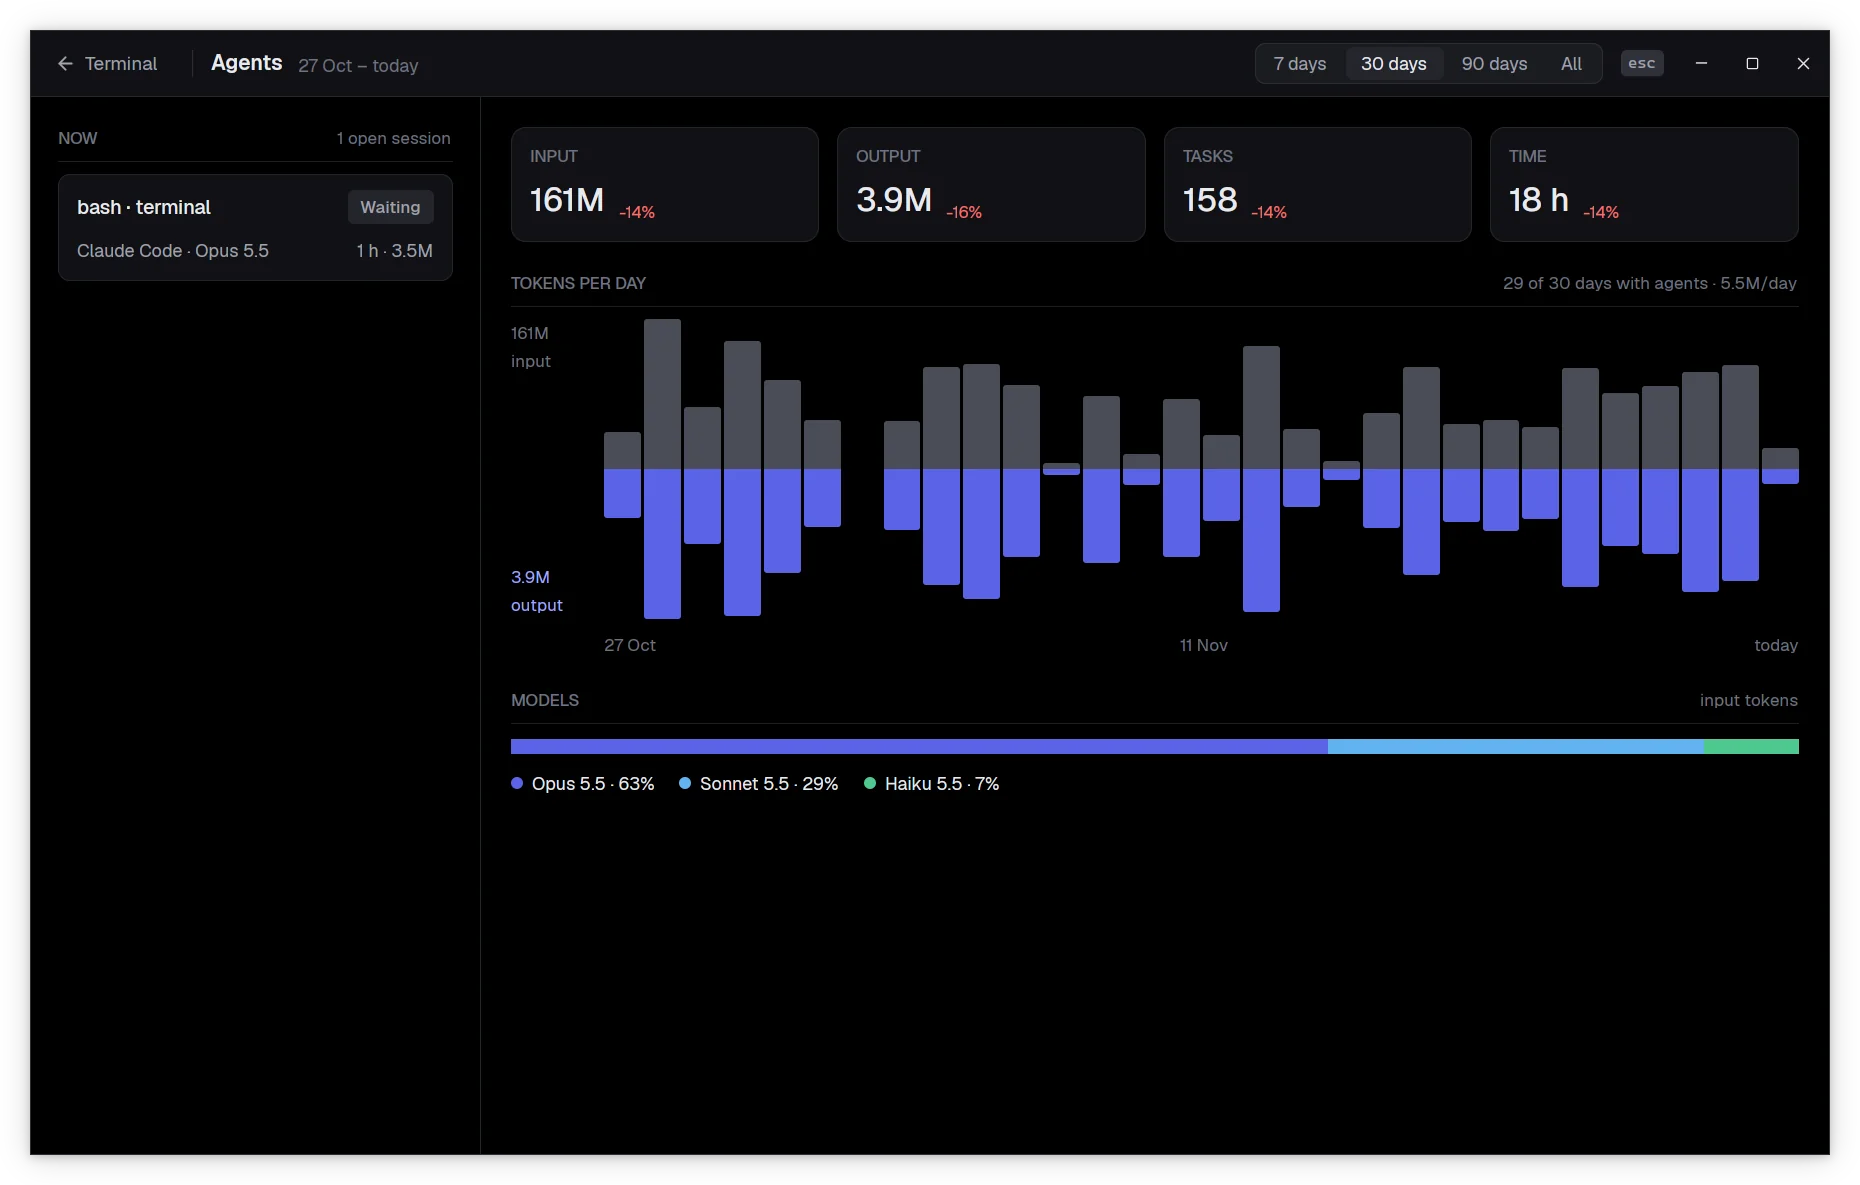
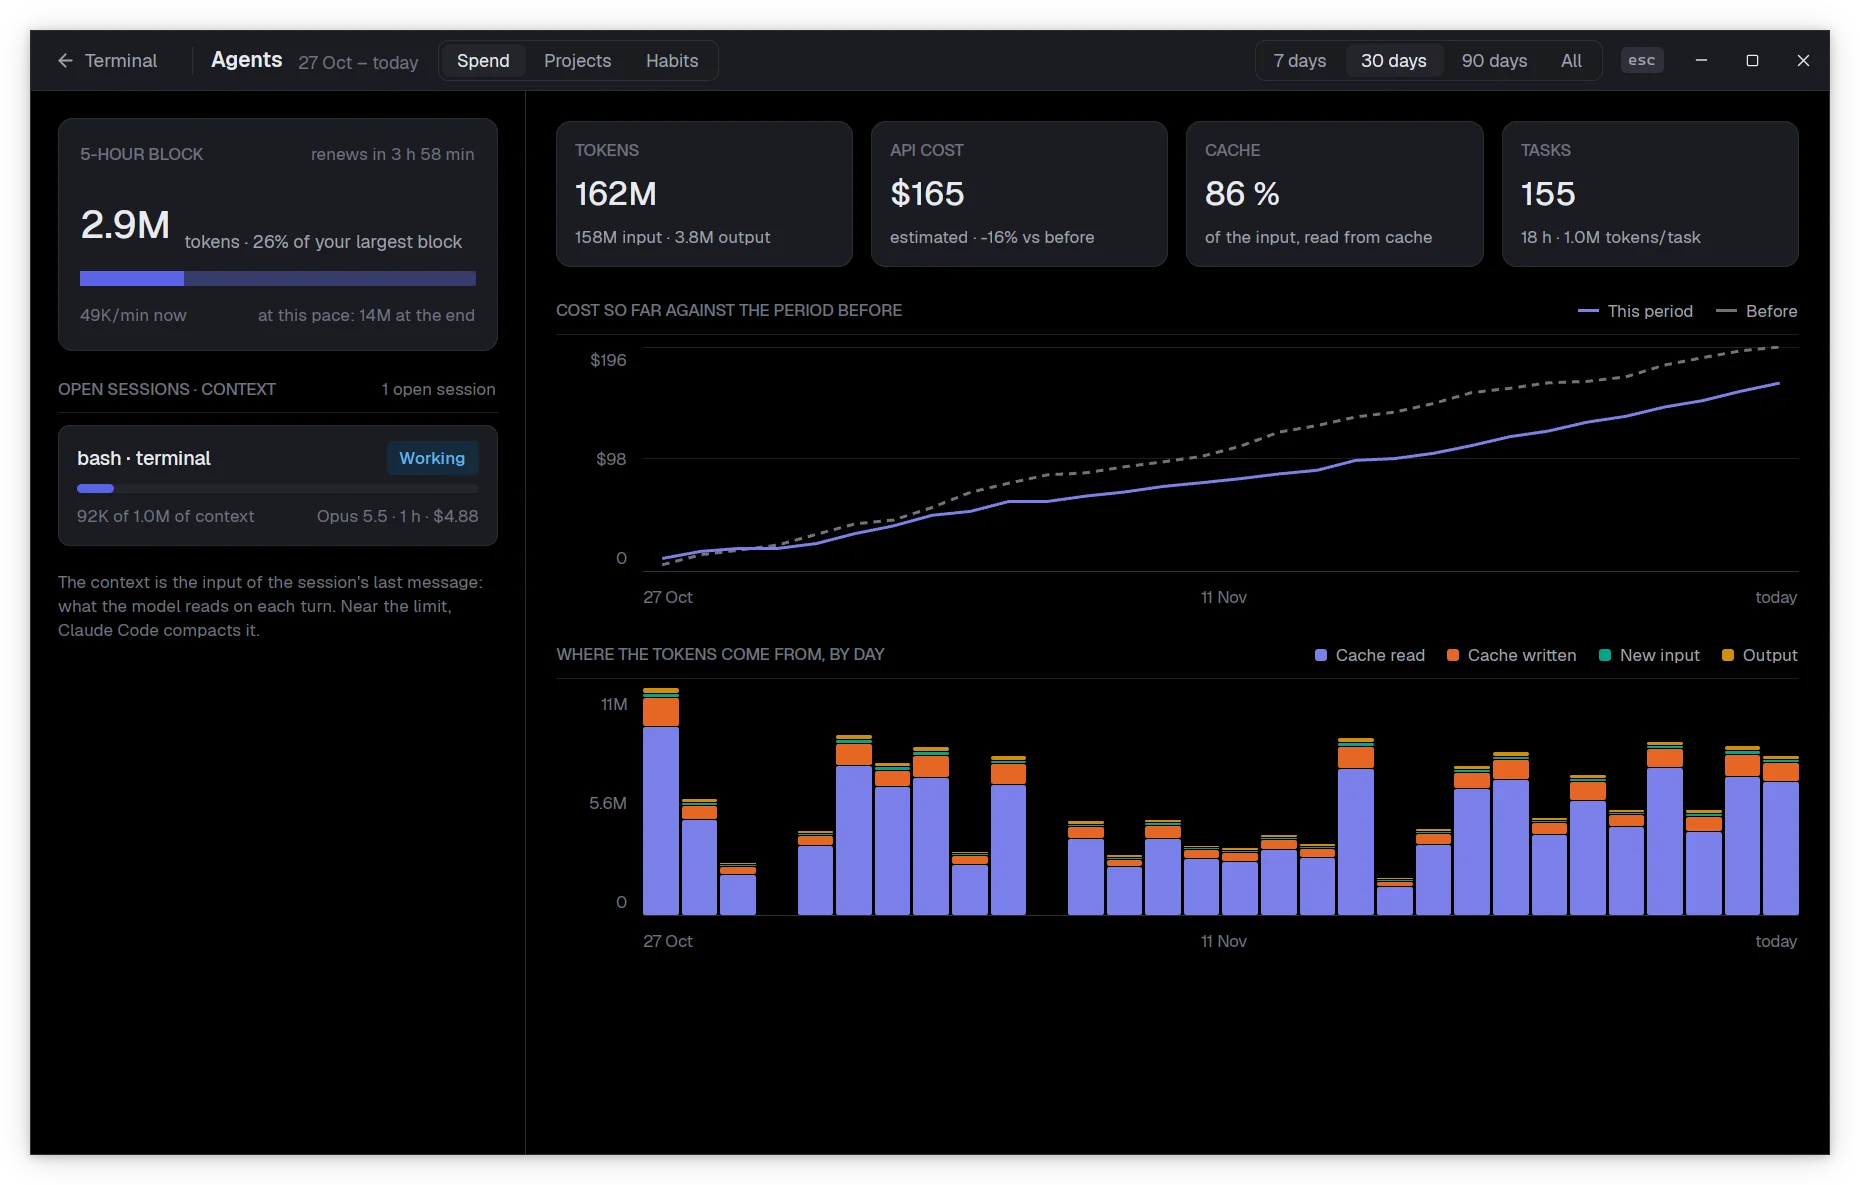
Take a new screenshot of the usage screen for the website
The website showed the usage screen of 0.2.0. The demo logs now name
their folder and keep a 5-hour block running, the capture script
records the version so What's new does not open over the first
screenshot, and the text of the section describes the new screen. The
cost axis shows whole dollars and the cache note is shorter, so it
fits its card.

Claude-Session: https://claude.ai/code/session_01WdZr6oZmyTC6qKiuyZsYfS

diff --git a/site/index.html b/site/index.html
@@ -187,19 +187,19 @@
                         <div class="copy">
                             <h3>Your coding agent's usage</h3>
                             <div class="text">
-                                <p>See the tokens Claude Code used, per day and over a week, a month or three, with the models it used and the tabs where it runs now. The numbers are read from its logs on your machine; the content of your sessions is never read.</p>
+                                <p>See what Claude Code costs and where its tokens go: the 5-hour block against your largest one, how full the context of each agent open in a tab is, the cost at API prices against the period before, each project and the hours you work with it. The numbers are read from its logs on your machine; the content of your sessions is never read.</p>
                                 <ul class="checks">
-                                    <li>Input and output tokens, tasks and active time</li>
-                                    <li>A bar per day, cache tokens counted in</li>
+                                    <li>The 5-hour block, the context of open agents and the cost</li>
+                                    <li>Projects, recent sessions and when you work</li>
                                     <li>Nothing leaves your computer</li>
                                 </ul>
                             </div>
                         </div>
                         <div class="shot">
                             <img class="light" src="img/usage-light.webp" width="1860" height="1185" loading="lazy"
-                                alt="The agent usage screen: totals of input and output tokens, tasks and time for 30 days, a bar per day and the share of each model.">
+                                alt="The agent usage screen: the 5-hour block, the context of an agent open in a tab, tokens, cost at API prices, cache and tasks for 30 days, the cost so far against the period before and where the tokens come from each day.">
                             <img class="dark" src="img/usage-dark.webp" width="1860" height="1185" loading="lazy"
-                                alt="The agent usage screen: totals of input and output tokens, tasks and time for 30 days, a bar per day and the share of each model.">
+                                alt="The agent usage screen: the 5-hour block, the context of an agent open in a tab, tokens, cost at API prices, cache and tasks for 30 days, the cost so far against the period before and where the tokens come from each day.">
                         </div>
                     </article>
                 </div>

diff --git a/site/screenshots/demo/usage.py b/site/screenshots/demo/usage.py
@@ -1,6 +1,7 @@
 #!/usr/bin/env python3
 """Writes 60 days (this period and the one before) of made up Claude Code logs under HOME/.claude/projects for the usage
-screenshot: only the fields tterm reads (usage numbers, no content)."""
+screenshot: only the fields tterm reads (usage numbers, the folder, no content). Today's session of the
+first project started under an hour ago, so a 5-hour block is running."""
 import datetime, json, os, random, re, sys
 
 home = sys.argv[1]
@@ -13,19 +14,27 @@ for project in ["terminal", "postino", "telaio"]:
     folder = os.path.join(home, ".claude", "projects", re.sub(r"[^A-Za-z0-9]", "-", cwd))
     os.makedirs(folder, exist_ok=True)
     for day in range(60):
-        if random.random() < 0.25:
+        if random.random() < 0.25 and not (day == 0 and project == "terminal"):
             continue
-        start = now - datetime.timedelta(days=day, hours=random.randint(1, 8))
+        if day == 0 and project == "terminal":
+            start = now - datetime.timedelta(minutes=50)
+        elif day == 0:
+            # Before the running block, so the block starts with the session above.
+            start = now - datetime.timedelta(hours=random.randint(6, 9))
+        else:
+            start = now - datetime.timedelta(days=day, hours=random.randint(1, 8))
         session = f"{project}-{day}"
         lines = []
         for task in range(random.randint(1, 4)):
             t = start + datetime.timedelta(minutes=task * 25)
+            if t > now - datetime.timedelta(minutes=12):
+                break
             lines.append({"type": "user", "timestamp": t.isoformat().replace("+00:00", "Z"),
-                          "sessionId": session, "message": {"role": "user", "content": "x"}})
+                          "sessionId": session, "cwd": cwd, "message": {"role": "user", "content": "x"}})
             for answer in range(random.randint(4, 12)):
                 t2 = t + datetime.timedelta(minutes=answer)
                 lines.append({"type": "assistant", "timestamp": t2.isoformat().replace("+00:00", "Z"),
-                              "sessionId": session,
+                              "sessionId": session, "cwd": cwd,
                               "message": {"id": f"{session}-{task}-{answer}", "model": random.choice(models),
                                           "usage": {"input_tokens": random.randint(200, 4000),
                                                     "cache_creation_input_tokens": random.randint(2000, 30000),

diff --git a/crates/tterm-app/src/views/usage.rs b/crates/tterm-app/src/views/usage.rs
@@ -1073,7 +1073,7 @@ fn cost_chart(insights: &Insights, start: NaiveDate, palette: &Palette) -> impl 
         .child(
             h_flex()
                 .gap(px(10.0))
-                .child(y_axis(money(top), money(top / 2.0), palette))
+                .child(y_axis(axis_money(top), axis_money(top / 2.0), palette))
                 .child(
                     div()
                         .relative()
@@ -1767,6 +1767,15 @@ fn money(value: f64) -> String {
     }
 }
 
+/// Dollars on an axis: whole ones from $10, as `$98` rather than `$98.19`.
+fn axis_money(value: f64) -> String {
+    if (10.0..1000.0).contains(&value) {
+        format!("${value:.0}")
+    } else {
+        money(value)
+    }
+}
+
 /// A share as a percentage, `<1%` for a small one that is not zero.
 fn percent(share: f64) -> String {
     let value = share * 100.0;
@@ -1815,7 +1824,7 @@ fn ago(time: DateTime<Utc>, now: DateTime<Utc>) -> String {
 
 #[cfg(test)]
 mod tests {
-    use super::{heat_step, money, short_duration};
+    use super::{axis_money, heat_step, money, short_duration};
     use pretty_assertions::assert_eq;
 
     #[test]
@@ -1824,6 +1833,8 @@ mod tests {
         assert_eq!(money(41.2), "$41.20");
         assert_eq!(money(597.44), "$597");
         assert_eq!(money(1286.7), "$1.29K");
+        assert_eq!(axis_money(98.19), "$98");
+        assert_eq!(axis_money(4.5), "$4.50");
     }
 
     #[test]
